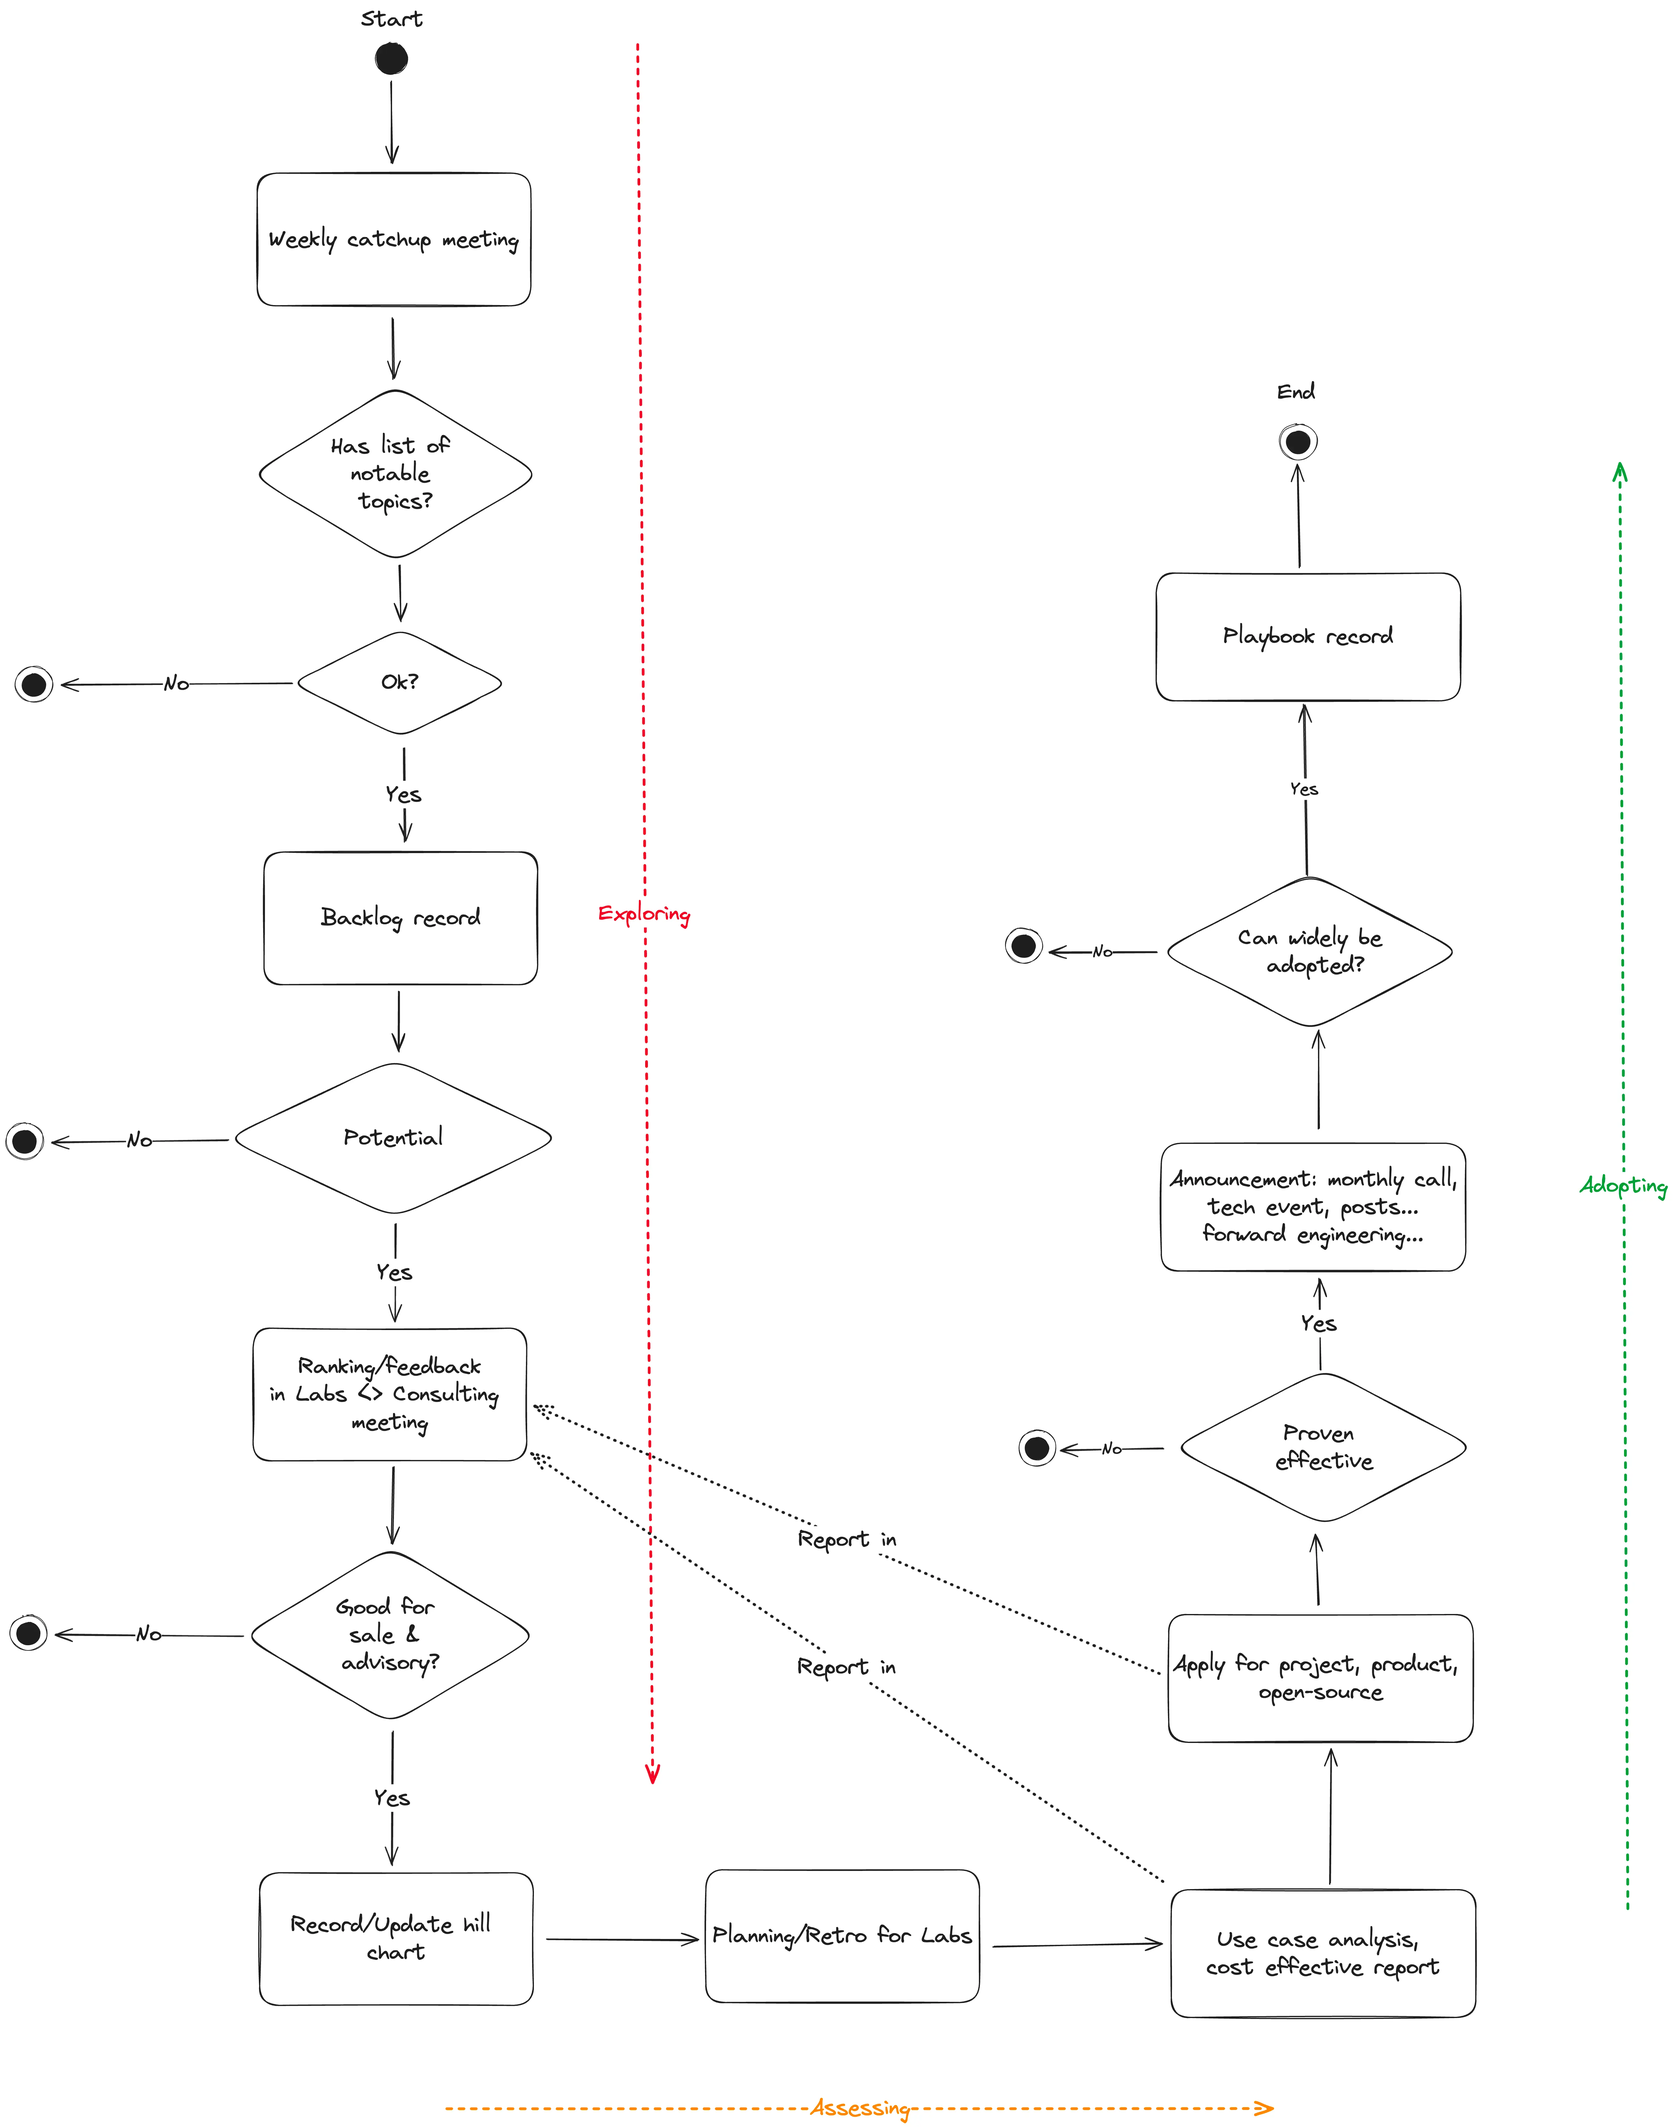
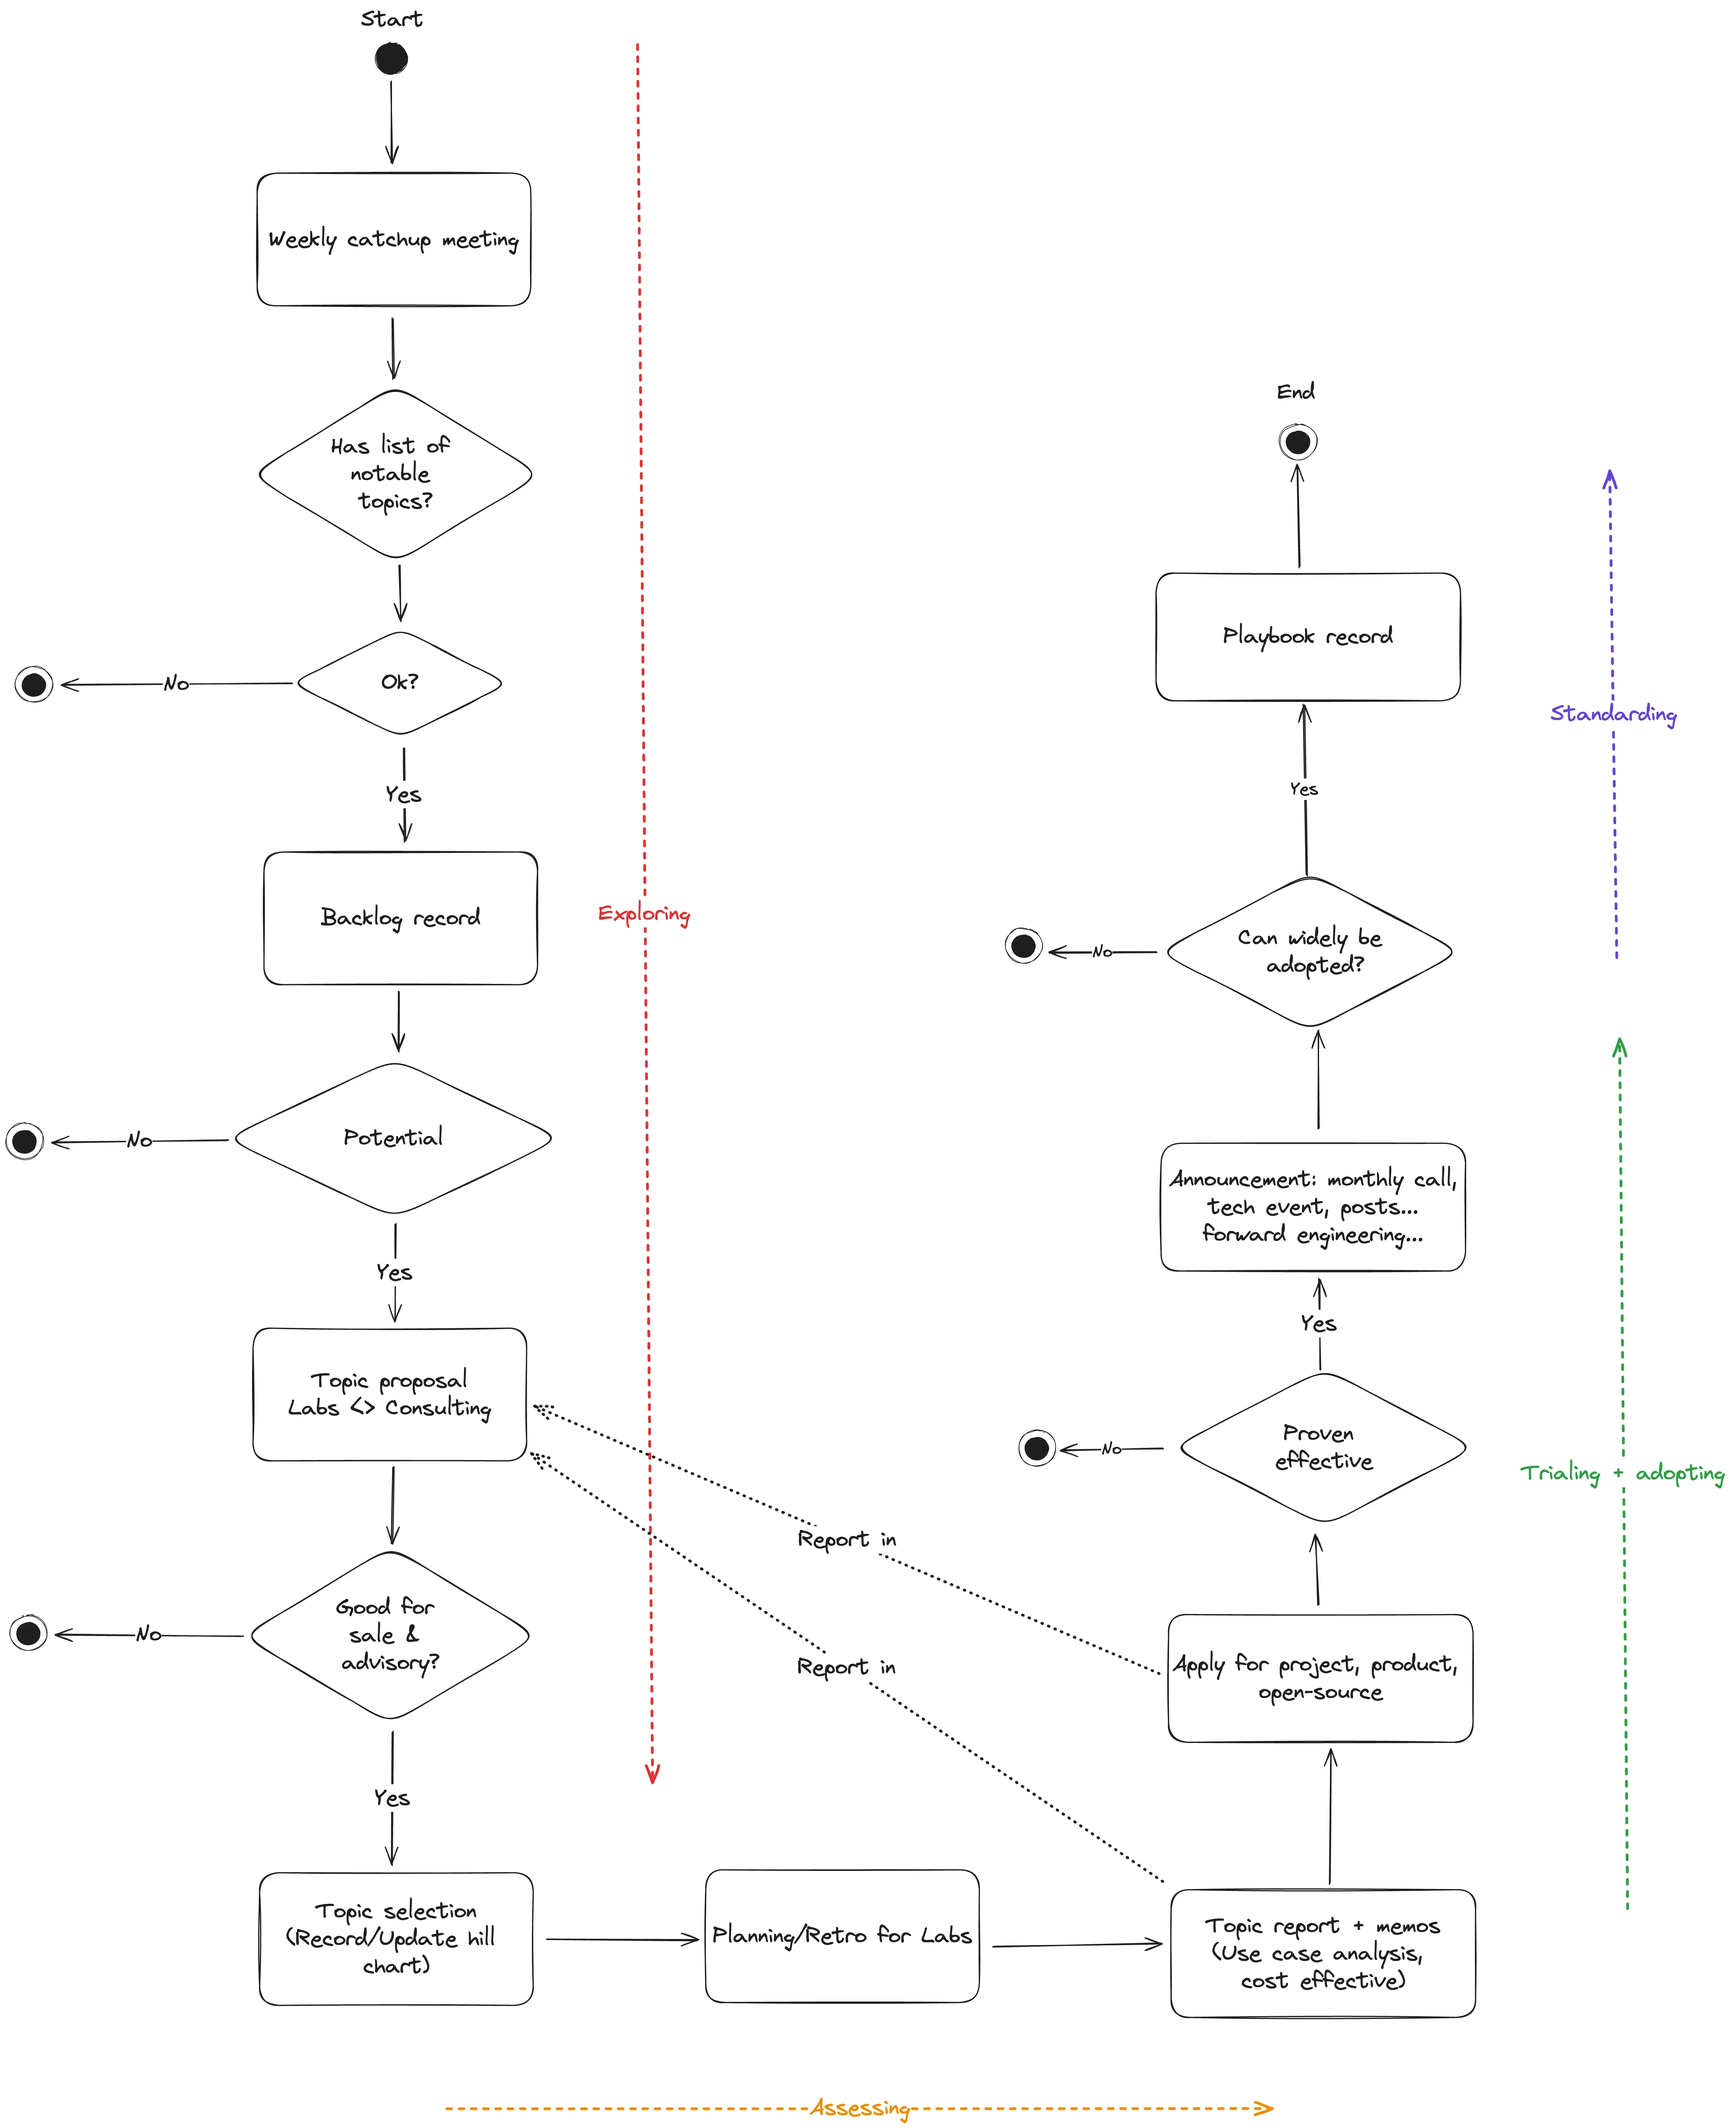
docs: add timeline in labs x consulting workflow

diff --git a/memo/labs/Labs x Consulting Workflow.md b/memo/labs/Labs x Consulting Workflow.md
@@ -43,3 +43,7 @@ This workflow summarizes the ************************************************thr
 > To ensure these meetings are productive, it's vital to have a clear agenda outlining the topics and presenters. Participants should review the agenda in advance and prepare questions, fostering an environment of open discussion.
 
 ![[Labs x Consulting Workflow-20231121174237957.webp]]
+
+The timeline for the adoption of new technology typically spans approximately 45 days, though this can vary depending on the complexity and nature of the technology. Here's a general outline of the process:
+
+![[Labs Topic Timeline-20231121174237957.webp]]
